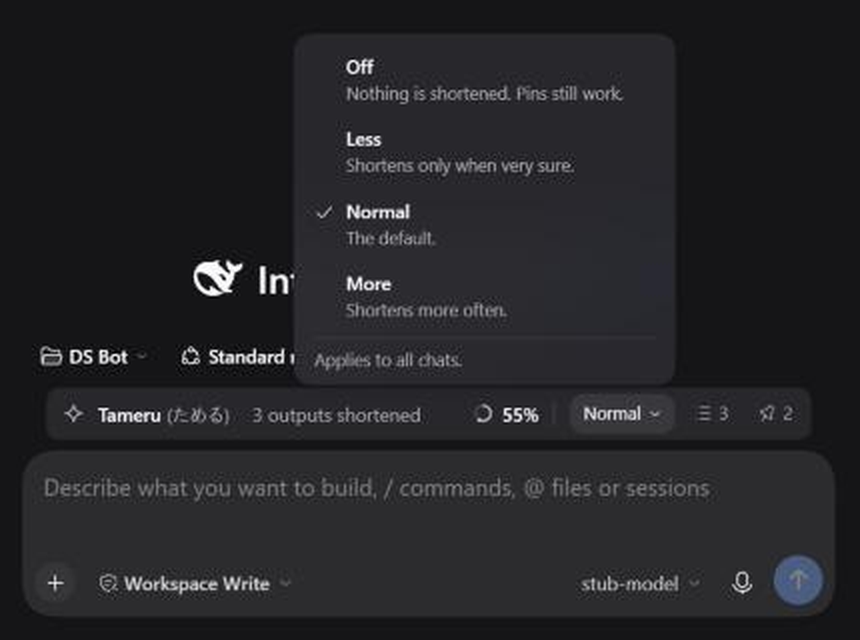
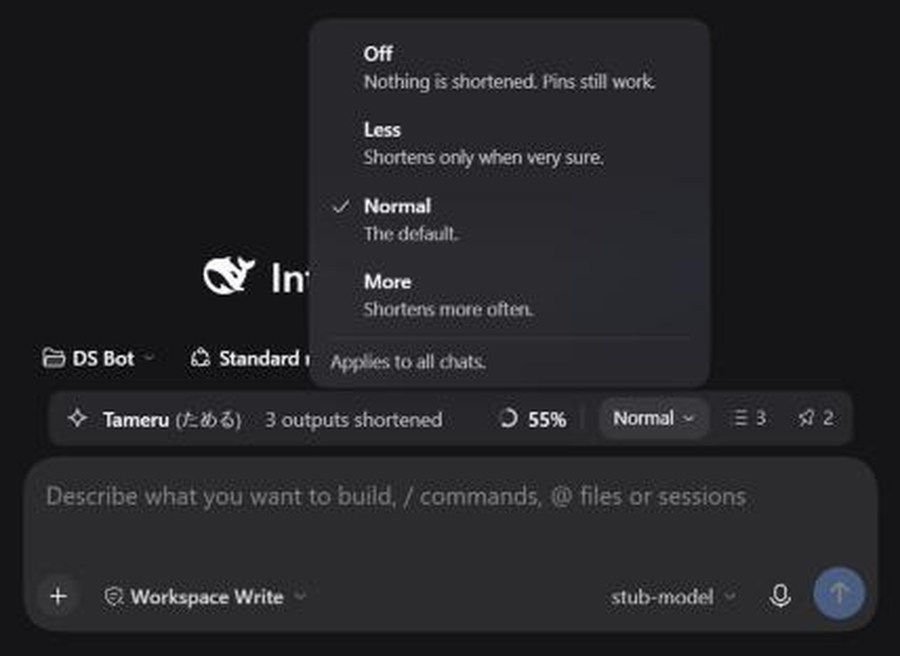
Dim text clears 4.5:1 in both themes; final screenshots; contrast and layout measurements recorded

diff --git a/src/client/index.tsx b/src/client/index.tsx
@@ -22,7 +22,7 @@ const NOTICE_MS = 5000
 
 const STYLE = `
 .tameru, .tameru-card, .tameru-menu { --t-fs: var(--dsh-content-font-size-secondary, 13px); --t-lh: calc(20px + var(--dsh-content-font-delta-secondary, 0px)); --t-fs-s: calc(var(--t-fs) - 1px); --t-lh-s: calc(18px + var(--dsh-content-font-delta-secondary, 0px));
-  --t-fg1: var(--dsw-alias-label-primary, currentColor); --t-fg2: var(--dsw-alias-label-secondary, currentColor); --t-fg3: var(--dsw-alias-label-tertiary, color-mix(in srgb, currentColor 62%, transparent));
+  --t-fg1: var(--dsw-alias-label-primary, currentColor); --t-fg2: var(--dsw-alias-label-secondary, currentColor); --t-fg3: color-mix(in srgb, var(--dsw-alias-label-tertiary, color-mix(in srgb, currentColor 62%, transparent)) 70%, var(--t-fg1));
   --t-line: var(--dsw-alias-border-l2, color-mix(in srgb, currentColor 16%, transparent)); --t-hover: var(--dsw-alias-interactive-bg-hover, color-mix(in srgb, currentColor 9%, transparent));
   --t-accent: var(--dsw-static-blue-450, #4d6bfe); --t-error: var(--dsw-alias-state-error-primary, #d9534f);
   --t-ring-track: var(--dsw-alias-border-l3, color-mix(in srgb, currentColor 22%, transparent)); --t-ring-fill: var(--t-fg2);

diff --git a/docs/COMPATIBILITY.md b/docs/COMPATIBILITY.md
@@ -30,6 +30,8 @@ A plugin must declare every Harness service it uses in `inject`, or Cordis fails
 - The packed plugin installs into a throwaway Harness home, the composed configuration differs from stock by exactly one row, the plugin loads, `/tameru` runs, the worker starts on the bundled Python and is gone when the Harness stops, and the bar loads in the input dock, with its Results, Pins and Settings sections working against the real route (`scripts/dev_harness.py`).
 - With **DS Bot** installed (checked once, on 0.1.0, and no longer re-checked): 199 rows composed with no duplicate id and both browser bundles loaded with no console error.
 
+- **Contrast and layout, measured on the live bar** (Harness 0.2.2-rc.3 web client, sample data): dimmed text is 8.84:1 on its surface in the dark theme and 6.03:1 in the light theme (the Harness's own tertiary colour is 3.66:1 in light, so the bar blends 30% of the primary colour into it); primary text 14.3:1 and 18.7:1. Exactly two text sizes at the default and at an 18 px user font, a 36 px bar, the card flush with the bar with a 6 px gap, all size columns and trailing buttons on one x, and no overflow.
+
 ## Not verified
 
 - **The measurements on rc.3.** [MEASURED-VS-STOCK.md](MEASURED-VS-STOCK.md) and [REPLAY-VS-STOCK.md](REPLAY-VS-STOCK.md) were run on 0.2.2-rc.1. The stock trigger formula and the stock pruner's constants (8,192 / 4,096 / 1,024) are identical in rc.3, but the replay was not re-run.
